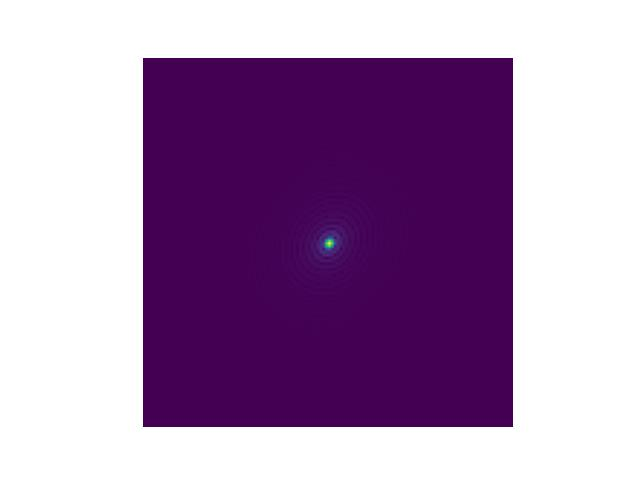
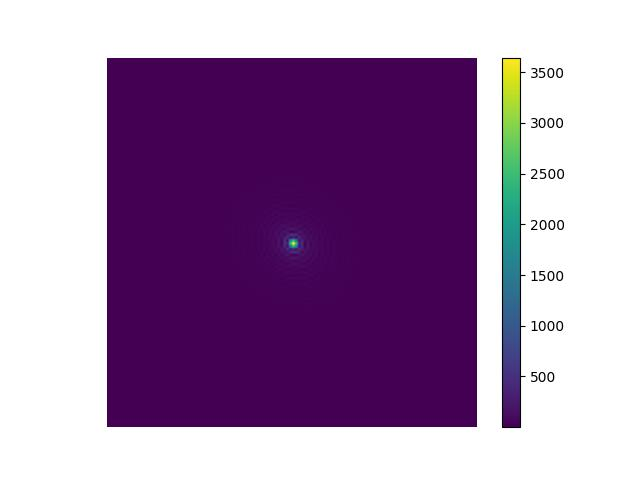
colorbar

Changed region(s): [[0.7188, 0.0938, 0.875, 0.9062], [0.1562, 0.0938, 0.25, 0.9062], [0.4375, 0.4688, 0.5312, 0.5312]]

diff --git a/Phase_II/code/main_def_test.py b/Phase_II/code/main_def_test.py
@@ -10,40 +10,58 @@ fn.para(img_size=128)
 
 # check the signal on observational plane and captured one using baseline of a stellar object
 base = np.load("base_npy/base.npy") 
-train_image = np.load("ellip_npy/ellipse6018.npy")
+train_image = np.load("ellip_npy/ellipse1612.npy")
 train_image = cv2.resize(train_image, dsize=(128, 128), interpolation=cv2.INTER_AREA)
 print('base shape', np.shape(base))
 print('image shape', np.shape(train_image))
 fft = np.abs(fft.fftshift(fft.fft2(fft.fftshift(train_image))))
 # the signal on observational plane
-plt.imshow(fft)
+img = plt.imshow(fft)
+plt.colorbar(img)
 plt.gca().set_aspect('equal')
 plt.axis('off')
 plt.savefig('ft/ft.jpg')
 #plt.show()
 
-plt.imshow(np.log(fft))
+plt.close()
+img1 = plt.imshow(np.log(fft))
+plt.colorbar(img1)
 plt.gca().set_aspect('equal')
 plt.axis('off')
 plt.savefig('ft/ft_log.jpg')
 #plt.show()
 
-'''
+plt.close()
 # the signal captured with baseline on observational plane
 output = np.multiply(fft, base) 
-plt.imshow(output)
+img2 = plt.imshow(output)
+plt.colorbar(img2)
+plt.gca().set_aspect('equal')
+plt.axis('off')
+plt.savefig('ft/ft_base.jpg')
 plt.show()
 
+plt.close()
+# the signal captured with baseline on log observational plane
+img3 = plt.imshow(np.log10(output+1e-7))
+plt.colorbar(img3)
+plt.gca().set_aspect('equal')
+plt.axis('off')
+plt.savefig('ft/ft_log_base.jpg')
+plt.show()
+
+'''
+plt.close()
 # The full fourier transformation on ground of stellar object and the captured one with baselines
 plt.subplot(1,2,1)
 plt.imshow(fft)
 plt.subplot(1,2,2)
 plt.imshow(output)
-plt.show()
+#plt.show()
 
 
 # check the spliting of image (sky and observational) is working
-sample_input, sample_real = fn.load('train/ellipse1693.jpg')                         # load the image to be trained in float32 tensor
+sample_input, sample_real = fn.load('train/ellipse1612.jpg')                         # load the image to be trained in float32 tensor
 print(np.shape(sample_input))
 pic = 0
 for i in [sample_input, sample_real]:

diff --git a/Phase_II/code/generate_image.py b/Phase_II/code/generate_image.py
@@ -19,13 +19,27 @@ for r in rad:
            i += 0.07
         if (i == 0) or (i == np.pi):
            ellipse = ep.ellip(sx, sy, r, i, 0, 1)
-           plt.imsave('ellip_image/ellipse' + str(pic) + '.jpg', ellipse)
-           np.save('ellip_npy/ellipse' + str(pic) + '.npy', ellipse)
+           img = plt.imshow(ellipse)
+           plt.colorbar(img) 
+           plt.axis('off')
+           plt.savefig(f'ellip_image/ellipse{pic}.jpg')
+           plt.close()
+           np.save(f'ellip_npy/ellipse{pic}.npy', ellipse)
            pic += 1
+           #plt.imsave('ellip_image/ellipse' + str(pic) + '.jpg', ellipse)
+           #np.save('ellip_npy/ellipse' + str(pic) + '.npy', ellipse)
+           #pic += 1
         else:
            for p in pa:
                for s in sq:
                    ellipse = ep.ellip(sx, sy, r, i, p, s)
-                   plt.imsave('ellip_image/ellipse' + str(pic) + '.jpg', ellipse)
-                   np.save('ellip_npy/ellipse' + str(pic) + '.npy', ellipse)
+                   img = plt.imshow(ellipse)
+                   plt.colorbar(img) 
+                   plt.axis('off')
+                   plt.savefig(f'ellip_image/ellipse{pic}.jpg')
+                   plt.close()
+                   np.save(f'ellip_npy/ellipse{pic}.npy', ellipse)
                    pic += 1
+                   #plt.imsave('ellip_image/ellipse' + str(pic) + '.jpg', ellipse)
+                   #np.save('ellip_npy/ellipse' + str(pic) + '.npy', ellipse)
+                   #pic += 1

diff --git a/Phase_II/code/generate_baseline.py b/Phase_II/code/generate_baseline.py
@@ -52,22 +52,22 @@ yt = distance[:,1]           # baselines in north direction
 zt = distance[:,2]           # baseline in up
 
 
-# plot the covered (u,v) plane with baselines
+# plot the covered (u,v) plane with baselines (comment out the lines for the visualizations of baseline only)
 plt.close()
 plt.rcParams.update({'font.size': 15})
 plt.rcParams["figure.figsize"] = [12,8]
 plt.rcParams["font.weight"] = "bold"
 plt.rcParams["axes.labelweight"] = "bold"
 st = np.cumsum(step)
-color = ['cornflowerblue', 'orange', 'cyan', 'olive', 'red', 'purple']
+#color = ['cornflowerblue', 'orange', 'cyan', 'olive', 'red', 'purple']
 for k in range(0, len(xt), 1):
-    plt.plot(xt[k,:], yt[k,:], 'o', markeredgecolor='blue', markersize=6, markeredgewidth=1.5, color=color[k], )
+    plt.plot(xt[k,:], yt[k,:], '.', color='black')#, 'o', markeredgecolor='blue', markersize=6, markeredgewidth=1.5, color=color[k], )
     
-#plt.axis('off')
+plt.axis('off')
 plt.gca().set_aspect('equal')
-plt.xlabel('Along East in meter')
-plt.ylabel('Along North in meter')
-plt.title('The covered observational (u, v) plane', fontweight='bold')
+#plt.xlabel('Along East in meter')
+#plt.ylabel('Along North in meter')
+#plt.title('The covered observational (u, v) plane', fontweight='bold')
 plt.savefig('base/baseline.png')#, bbox_inches='tight', pad_inches=0, dpi=500)
 
 

diff --git a/Phase_II/code/gan_def_test.py b/Phase_II/code/gan_def_test.py
@@ -23,14 +23,12 @@ sample_input, sample_real = fn.load('train/ellipse1541.jpg')                    
 generator = mfn.Generator()
 tf.keras.utils.plot_model(generator, to_file='testing_image/generator.png', show_shapes=True, dpi=64) # structure of Generator according to the neuron
 
-
 gen_output = generator(sample_input[tf.newaxis, ...], training=True)                                  # test the Generator to generate image using input signal (visibility) 
 plt.imshow(gen_output[0, ...])
 plt.savefig('testing_image/gen.png')
 
 discriminator = mfn.Discriminator()
 tf.keras.utils.plot_model(discriminator, to_file='testing_image/discriminator.png', show_shapes=True, dpi=64) # structure of Discriminator according to the neuron
-
 
 disc_out = discriminator([sample_input[tf.newaxis, :], gen_output], training=False)                   # test the discrimator to predict the image (result) based on signal and generated imgae as input.
 plt.imshow(disc_out[0, ..., -1], vmin=-10, vmax=10, cmap='RdBu_r')

diff --git a/Phase_II/draft/II.tex b/Phase_II/draft/II.tex
@@ -44,7 +44,7 @@ $\abs{V_{12}}^2$ is a function of baseline $d = \sqrt{u^2 + v^2}$ on observation
 \end{figure}
 \begin{figure}
 	\centering
-	\includegraphics[width=0.8\linewidth]{fig/ellipse/ellipse6018.jpg}
+	\includegraphics[width=\linewidth]{fig/ellipse/ellipse1612.jpg}
 	\caption{This figure shows the simulated fast rotating star. The brightness is highest at the pole and there is gravitational darkening at the equator.}
 	\label{fig:image}
 \end{figure}

diff --git a/Phase_II/code/ellipse.py b/Phase_II/code/ellipse.py
@@ -88,7 +88,7 @@ class ellipsoid():
                   fms = '%7.1e'
               else:
                   fms = '%' + '.%i' % ip + 'f'
-          plt.colorbar(cs) #,format=fms)
+          #plt.colorbar(cs) #,format=fms)
           #plt.axis('off')
           if title:
              plt.title(title)

diff --git a/Phase_II/draft/prev/main.tex b/Phase_II/draft/prev/main.tex
@@ -13,6 +13,8 @@
 \usepackage{amsfonts} % For \mathbb
 %%%%%
 \usepackage{color}
+\definecolor{RED}{rgb}{1,0,0}
+\definecolor{BLUE}{rgb}{0,0,1}
 %\usepackage[normalem]{ulem}
 \usepackage{soul}
 \usepackage{ulem}
